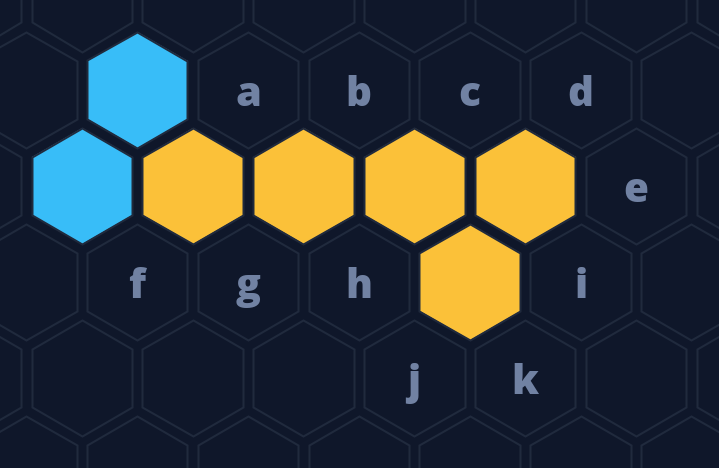
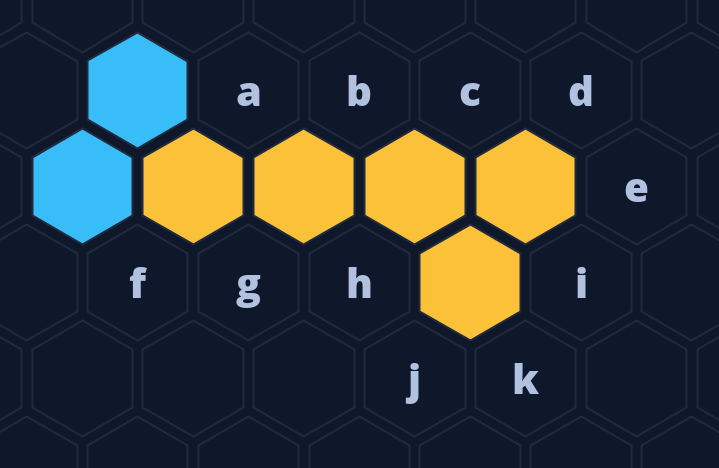
fix: improve cell label contrast (#11)
* fix: improve cell label contrast

* docs: updates example images to the new render settings

diff --git a/render/src/main/kotlin/de/mineking/hexo/render/Image.kt b/render/src/main/kotlin/de/mineking/hexo/render/Image.kt
@@ -45,7 +45,7 @@ data class ColorScheme(
             highlightedCellBorder = Color(0xec6fb1),
             focussedCellBorder = Color.WHITE,
             emptyCell = Color(0, true),
-            emptyCellLabel = Color(0x7182a3),
+            emptyCellLabel = Color(0xb1c1e0),
             playerX = Color(0xfbc139),
             playerO = Color(0x38bdf8),
         )
@@ -227,9 +227,9 @@ private class InternalBoardRenderer(
         }
     }
 
-    private fun Player?.color(emptyCellColor: Color) = when (this) {
-        Player.X -> colorScheme.playerX
-        Player.O -> colorScheme.playerO
+    private fun Player?.color(emptyCellColor: Color, transform: (Color) -> Color = { it }) = when (this) {
+        Player.X -> transform(colorScheme.playerX)
+        Player.O -> transform(colorScheme.playerO)
         null -> emptyCellColor
     }
 
@@ -287,7 +287,7 @@ private class InternalBoardRenderer(
 
         val oldFont = graphics.font
         graphics.font = BOLD_FONT.deriveFont(Font.BOLD, size.hexSize.toFloat() * 0.7f)
-        graphics.color = cell.owner.color(emptyCellColor = colorScheme.emptyCellLabel.brighter()).darker()
+        graphics.color = cell.owner.color(emptyCellColor = colorScheme.emptyCellLabel, transform = { it.darker().darker() })
 
         val fm = graphics.fontMetrics
         val textX = x - fm.stringWidth(text) / 2.0
